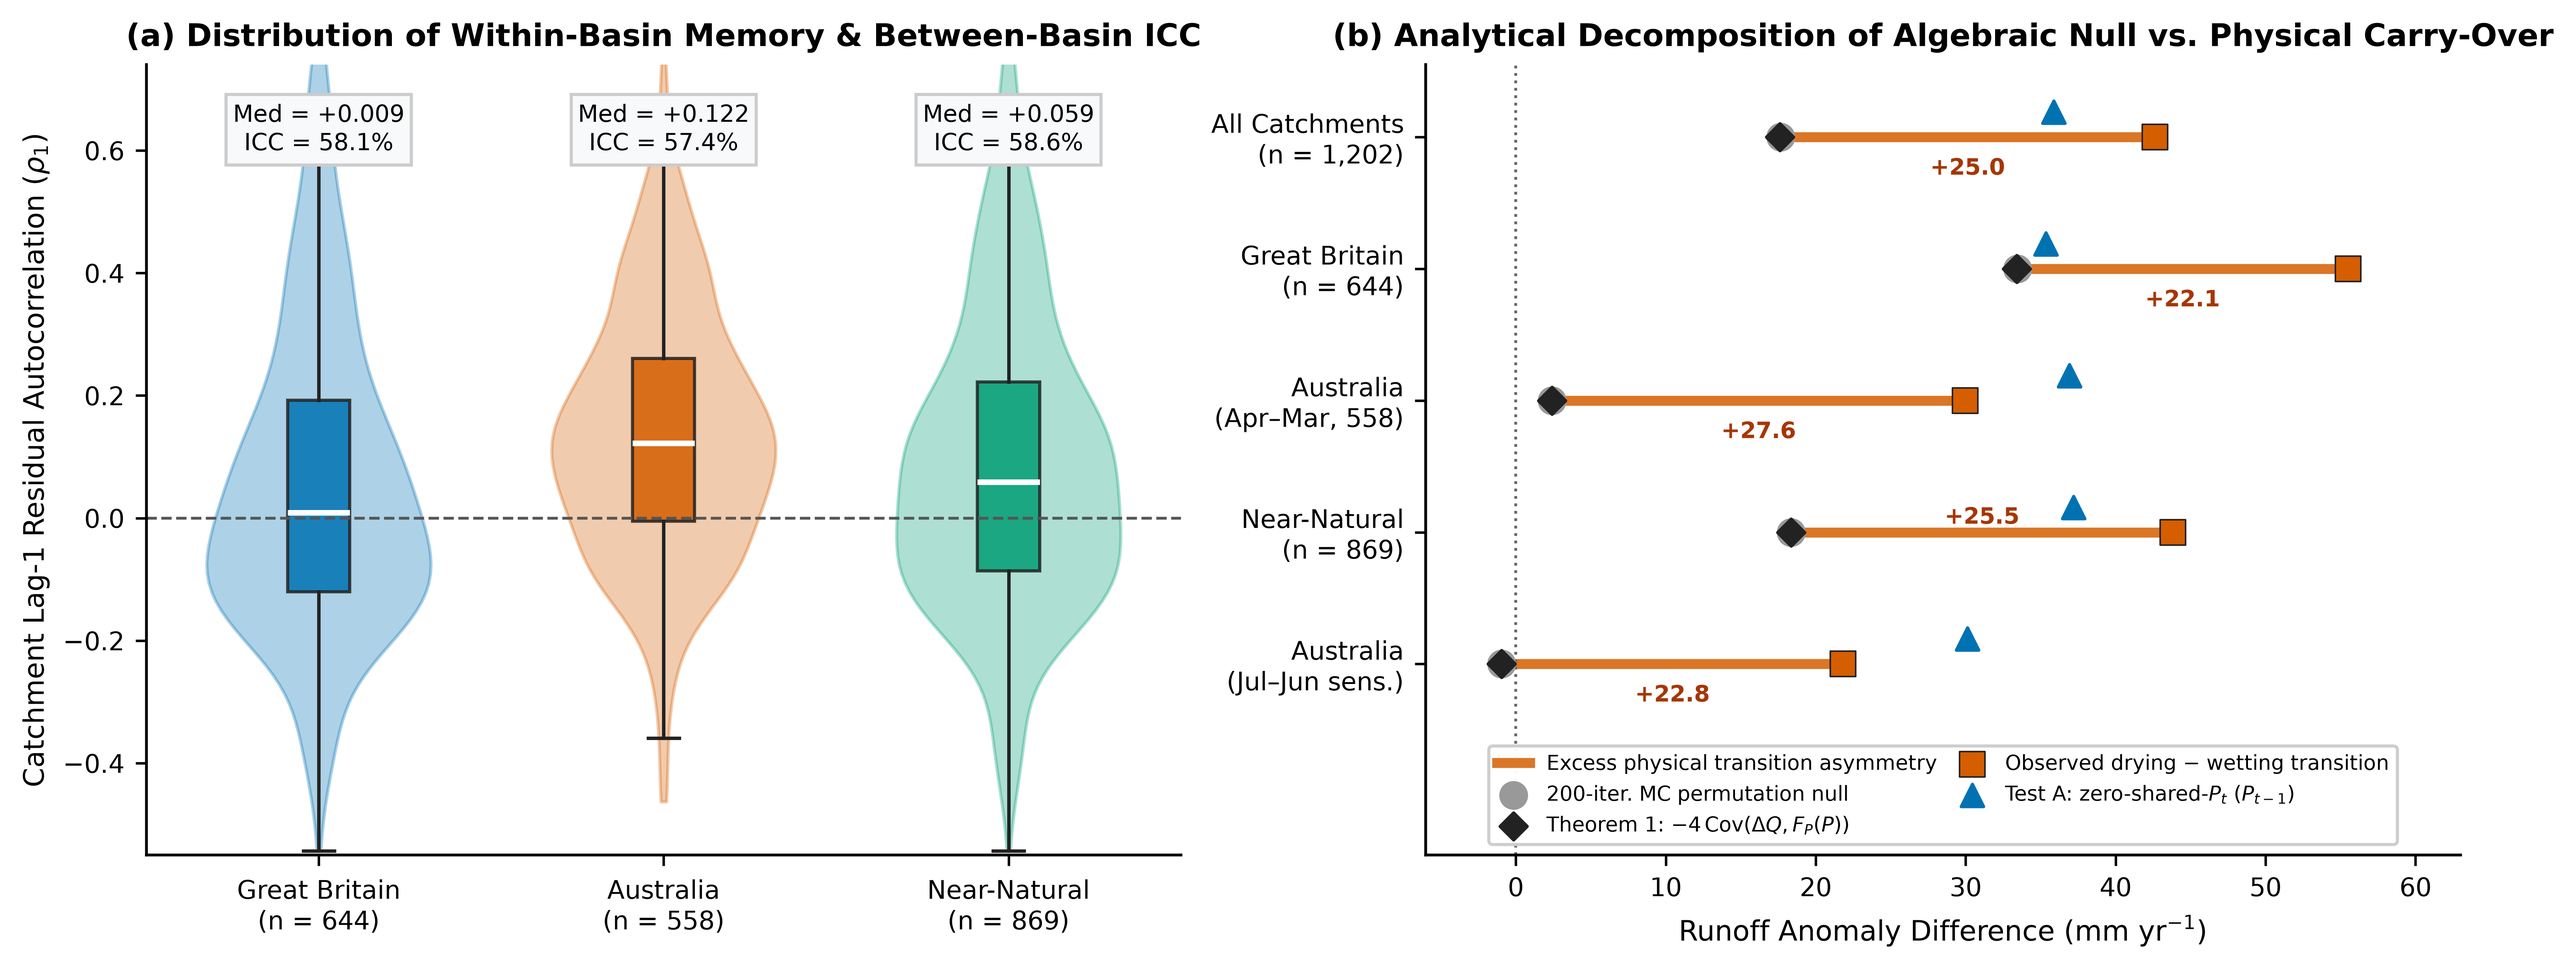
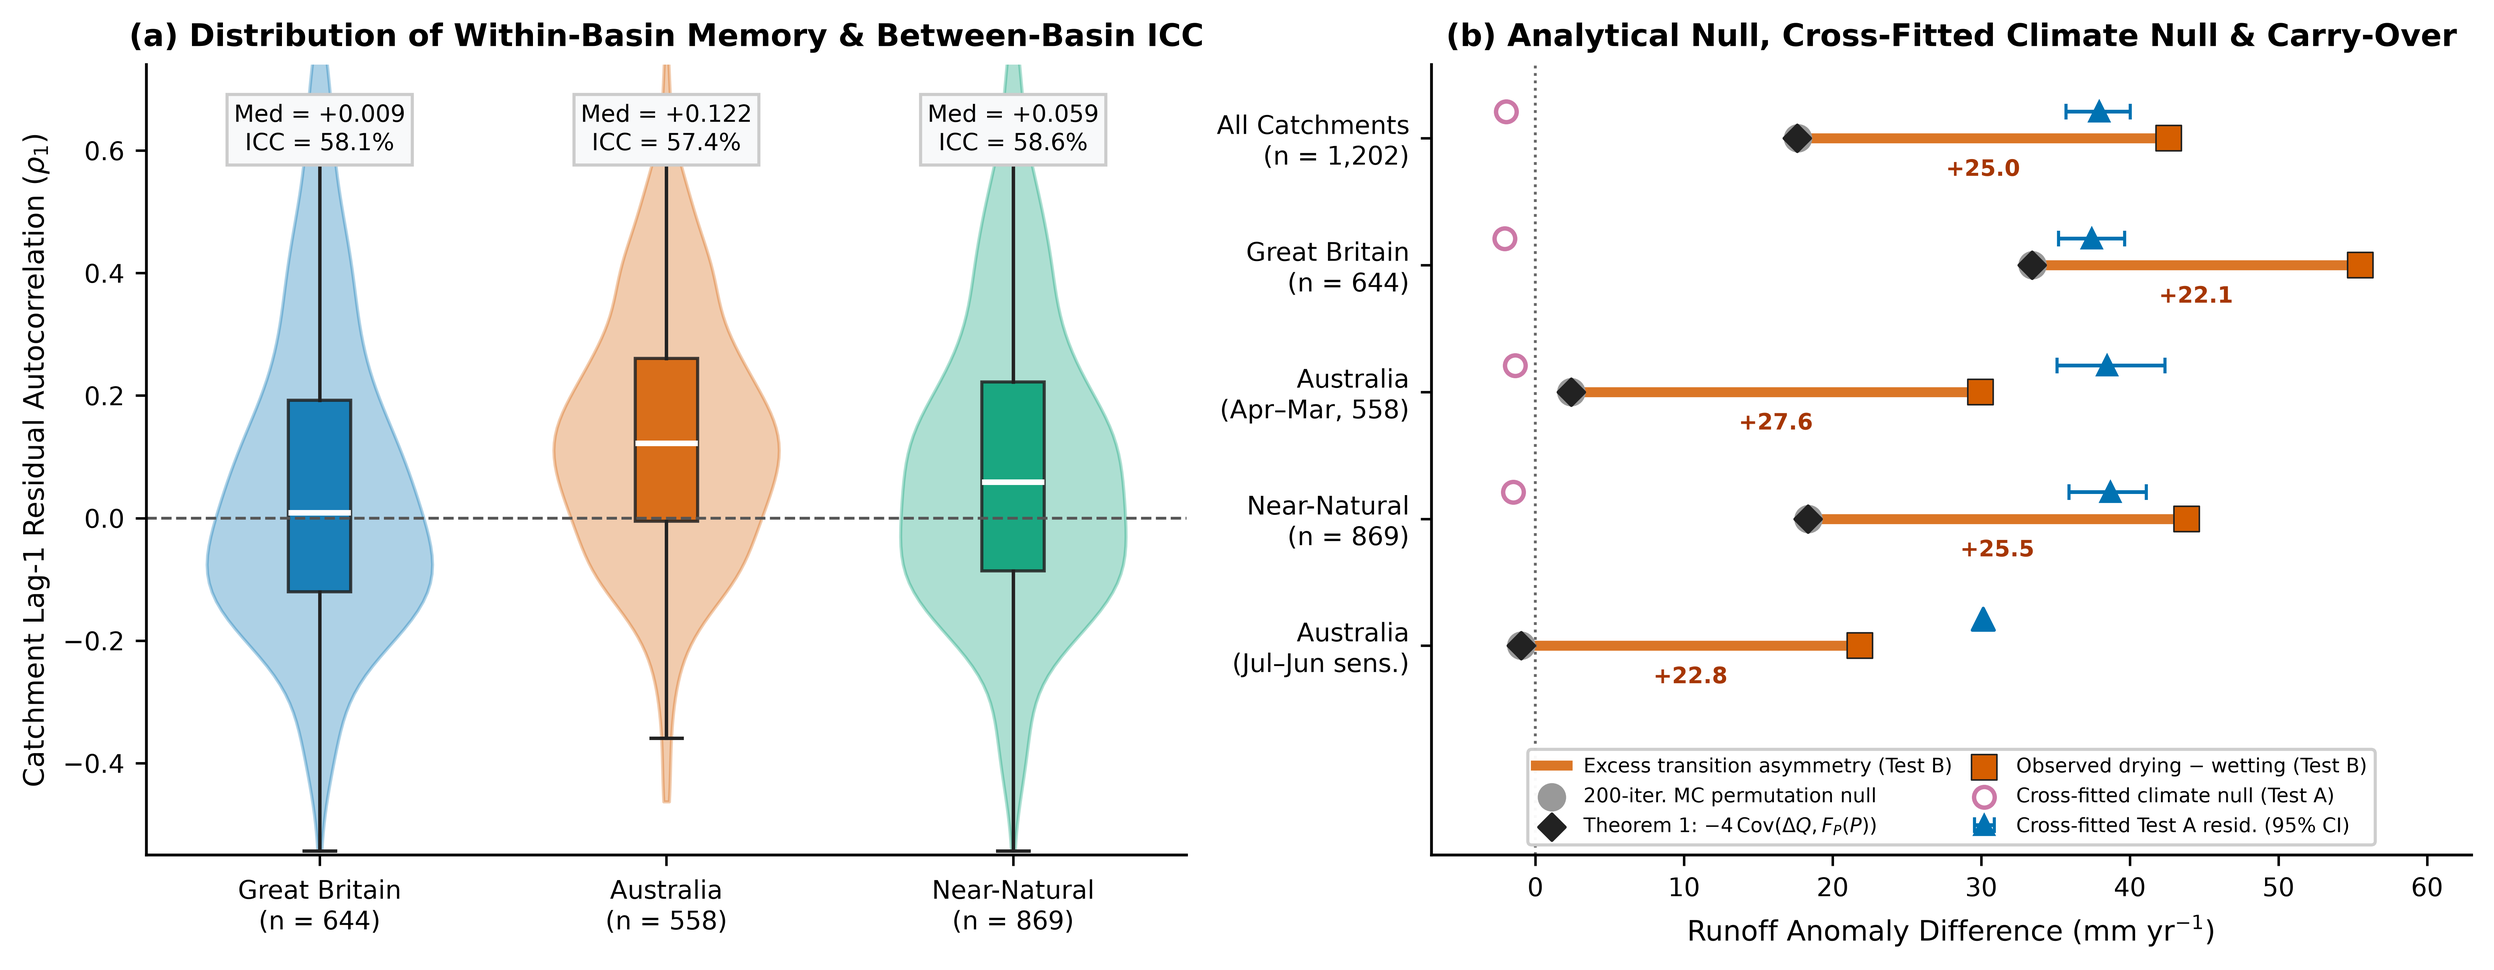
Upgrade 07_p0_rigorous_checks to 5-fold time-block cross-fitting, update Fig2 and README index

diff --git a/scripts/05_generate_top_journal_figures.py b/scripts/05_generate_top_journal_figures.py
@@ -228,7 +228,8 @@ def make_fig2(attrs, diag, rho_map):
     ax1.set_ylabel(r"Catchment Lag-1 Residual Autocorrelation ($\rho_1$)")
     ax1.set_title("(a) Distribution of Within-Basin Memory & Between-Basin ICC")
 
-    # (b) Dumbbell / Decomposition Chart: Algebraic Null (Theorem 1 vs MC) -> Observed -> Antecedent Carry-Over
+    # (b) Dumbbell / Decomposition Chart: Theorem 1 vs MC vs Cross-Fitted Climate Null & 95% CI
+    p0 = json.load(open(os.path.join(RES_DIR, "p0_rigorous_checks.json"), encoding="utf-8"))["ClimatePreserving_Null_and_BasinBootstrap"]
     keys = ["ALL_1202", "GB_644", "AUS_558", "NEAR_NATURAL_869", "AUS_JulJun_WaterYear_Sensitivity"]
     ylabs = ["All Catchments\n(n = 1,202)", "Great Britain\n(n = 644)", "Australia\n(Apr–Mar, 558)", "Near-Natural\n(n = 869)", "Australia\n(Jul–Jun sens.)"]
     y = np.arange(len(keys))
@@ -239,33 +240,42 @@ def make_fig2(attrs, diag, rho_map):
             mc = eu
             obs = eu + diag[k]["test_B_excess_physical_dq_mm"]
             ant = diag[k]["test_A_wet_minus_dry_dq_mm"]
+            ant_ci = None
+            clim_null_a = None
         else:
             tb = diag[k]["test_B_euler_theorem_vs_mc_null"]
             eu = tb["euler_closed_form_null_dq_mm"]
             mc = tb["mc_null_mean_dq_mm"]
             obs = tb["obs_drying_minus_wetting_dq_mm"]
-            ant = diag[k]["test_A_antecedent_only_zero_shared_Pt"]["wet_minus_dry_dq_mm"]
+            ant = p0[k]["TestA_climate_residualized_mm"]
+            ant_ci = p0[k]["TestA_climate_residualized_boot95CI"]
+            clim_null_a = p0[k]["TestA_climate_preserving_null_mm"]
 
-        # Connect algebraic null -> observed (the span IS the excess physical transition asymmetry!)
         ax2.plot([eu, obs], [i, i], color=C_ORANGE, lw=3.2, alpha=0.85, zorder=2,
-                 label="Excess physical transition asymmetry" if i == 0 else None)
-        ax2.scatter(mc, i, s=68, color="#999999", marker="o", zorder=3,
+                 label="Excess transition asymmetry (Test B)" if i == 0 else None)
+        ax2.scatter(mc, i, s=66, color="#999999", marker="o", zorder=3,
                     label="200-iter. MC permutation null" if i == 0 else None)
-        ax2.scatter(eu, i, s=38, color=C_DARK, marker="D", zorder=4,
+        ax2.scatter(eu, i, s=36, color=C_DARK, marker="D", zorder=4,
                     label=r"Theorem 1: $-4\,\mathrm{Cov}(\Delta Q, F_P(P))$" if i == 0 else None)
-        ax2.scatter(obs, i, s=68, color=C_ORANGE, marker="s", edgecolors=C_DARK, linewidths=0.5, zorder=4,
-                    label="Observed drying − wetting transition" if i == 0 else None)
-        ax2.scatter(ant, i - 0.19, s=52, color=C_BLUE, marker="^", zorder=5,
-                    label=r"Test A: zero-shared-$P_t$ ($P_{t-1}$)" if i == 0 else None)
-        y_txt = i - 0.11 if i == 3 else i + 0.24
-        ax2.text((eu + obs) / 2, y_txt, f"+{obs - eu:.1f}", ha="center", va="center", fontsize=7.3, color="#A63603", fontweight="bold")
+        ax2.scatter(obs, i, s=66, color=C_ORANGE, marker="s", edgecolors=C_DARK, linewidths=0.5, zorder=4,
+                    label="Observed drying − wetting (Test B)" if i == 0 else None)
+        if clim_null_a is not None:
+            ax2.scatter(clim_null_a, i - 0.21, s=44, facecolors="white", edgecolors=C_PURPLE, linewidths=1.4, marker="o", zorder=5,
+                        label="Cross-fitted climate null (Test A)" if i == 0 else None)
+        if ant_ci is not None:
+            ax2.errorbar(ant, i - 0.21, xerr=[[ant - ant_ci[0]], [ant_ci[1] - ant]], fmt="^", color=C_BLUE,
+                         ecolor=C_BLUE, elinewidth=1.2, capsize=2.5, ms=6.0, zorder=5,
+                         label="Cross-fitted Test A resid. (95% CI)" if i == 0 else None)
+        else:
+            ax2.scatter(ant, i - 0.21, s=50, color=C_BLUE, marker="^", zorder=5)
+        ax2.text((eu + obs) / 2, i + 0.25, f"+{obs - eu:.1f}", ha="center", va="center", fontsize=7.2, color="#A63603", fontweight="bold")
 
     ax2.axvline(0.0, color="#666666", ls=":", lw=0.9)
     ax2.set_yticks(y); ax2.set_yticklabels(ylabs); ax2.invert_yaxis()
-    ax2.set_xlim(-6, 63); ax2.set_ylim(5.45, -0.55)
+    ax2.set_xlim(-7, 63); ax2.set_ylim(5.65, -0.58)
     ax2.set_xlabel(r"Runoff Anomaly Difference ($\mathrm{mm\ yr}^{-1}$)")
-    ax2.set_title("(b) Analytical Decomposition of Algebraic Null vs. Physical Carry-Over")
-    ax2.legend(loc="lower center", ncol=2, frameon=True, framealpha=0.96, fontsize=6.6, handlelength=1.6, columnspacing=0.9)
+    ax2.set_title("(b) Analytical Null, Cross-Fitted Climate Null & Carry-Over")
+    ax2.legend(loc="lower center", ncol=2, frameon=True, framealpha=0.96, fontsize=6.4, handlelength=1.6, columnspacing=0.8)
 
     fig.tight_layout()
     fig.savefig(os.path.join(FIG_DIR, "Fig2.png"))

diff --git a/scripts/07_p0_rigorous_checks.py b/scripts/07_p0_rigorous_checks.py
@@ -102,14 +102,24 @@ def main():
         w_i = fit_omega(np.array([np.sum(PET) / np.sum(P)]), np.array([np.sum(Q) / np.sum(P)]))
         dq = Q - P * fu_rr(AI, w_i)
 
-        # Contemporary-only memoryless regression g_i(P_t, PET_t) -> dq_hat (preserves ALL climate autocorr!)
-        # Design matrix: [1, P_z, P_z^2, PET_z]
-        pz = (P - np.mean(P)) / max(np.std(P), 1e-6)
-        petz = (PET - np.mean(PET)) / max(np.std(PET), 1e-6)
-        X_clim = np.column_stack([np.ones_like(pz), pz, pz ** 2, petz])
-        beta, *_ = np.linalg.lstsq(X_clim, dq, rcond=None)
-        dq_clim_only = X_clim @ beta           # memoryless climate-driven component
-        dq_clim_resid = dq - dq_clim_only      # residual orthogonal to contemporary (P_t, P_t^2, PET_t)
+        # Strictly out-of-sample 5-fold contiguous time-block cross-fitting for memoryless g_i(P_t, P_t^2, PET_t)
+        n_yr = len(rows)
+        dq_clim_only = np.zeros(n_yr)
+        dq_clim_resid = np.zeros(n_yr)
+        folds = np.array_split(np.arange(n_yr), 5)
+        for f_idx in folds:
+            tr_mask = np.ones(n_yr, dtype=bool)
+            tr_mask[f_idx] = False
+            mu_p, sd_p = float(np.mean(P[tr_mask])), max(float(np.std(P[tr_mask])), 1e-6)
+            mu_e, sd_e = float(np.mean(PET[tr_mask])), max(float(np.std(PET[tr_mask])), 1e-6)
+            def design(p_arr, e_arr):
+                pz_ = (p_arr - mu_p) / sd_p
+                ez_ = (e_arr - mu_e) / sd_e
+                return np.column_stack([np.ones_like(pz_), pz_, pz_ ** 2, ez_])
+            beta, *_ = np.linalg.lstsq(design(P[tr_mask], PET[tr_mask]), dq[tr_mask], rcond=None)
+            pred_oos = design(P[f_idx], PET[f_idx]) @ beta
+            dq_clim_only[f_idx] = pred_oos
+            dq_clim_resid[f_idx] = dq[f_idx] - pred_oos
 
         # Extract consecutive lag-1 pairs
         p_mean = float(np.mean(P))

diff --git a/README.md b/README.md
@@ -2,38 +2,40 @@
 
 Code and summary outputs accompanying the manuscript:
 
-> **Separating Catchment Structure, Inter-Annual Storage Memory, and Physics-Anchored Conformal Uncertainty in Annual Budyko Partitioning Across 1,202 Great Britain and Australian Catchments**  
+> **Catchment Structure, Inter-Annual Runoff Persistence, and Physics-Constrained Conformal Uncertainty Across 1,202 Great Britain and Australian Catchments**  
 > Zijie Deng, Yu Xia, Jiyang Yu, and Zhenyu Liao
 
 ## Overview
 
-This repository provides the full reproducible pipeline across 1,202 low-snow catchments (52,689 water years) from **CAMELS-GB v1** ($n = 644$) and **CAMELS-AUS v2.03** ($n = 558$), including:
+This repository provides the reproducible pipeline across 1,202 low-snow catchments (52,689 water years) from **CAMELS-GB v1** ($n = 644$) and **CAMELS-AUS v2.03** ($n = 558$), including:
 
-- Official daily catchment-averaged water-year aggregation and quality control (with Australian July--June water-year sensitivity check).
-- Orthogonal variance decomposition, partial rank correlation analysis of catchment memory drivers, and closed-form analytical zero-memory transition asymmetry verification ($\Delta_{\mathrm{null}} = -4\,\mathrm{Cov}(\Delta Q, F_P(P))$).
-- Zero-leakage benchmarks across four validation scenarios (gauged temporal, 5-fold ungauged PUB, cross-continent transfer, and Australia's Millennium Drought) comparing physical Fu curves, direct gradient-boosted trees, and physics-anchored residual learning.
-- Conformal uncertainty quantification comparing Split-CP, Local-CP, CQR, Mondrian CQR, boundary-preserving Logit-manifold CQR, and sequential Online Adaptive Conformal Inference (ACI).
+- Official daily catchment-averaged water-year aggregation and quality control (with Australian July–June water-year sensitivity check).
+- Orthogonal variance decomposition, partial rank correlation analysis, closed-form analytical zero-memory transition asymmetry verification ($\Delta_{\mathrm{null}} = -4\,\mathrm{Cov}(\Delta Q, F_P(P))$), and **5-fold contiguous time-block cross-fitted climate-preserving memoryless counterfactuals** with **500-iteration catchment-clustered bootstrap 95% CIs**.
+- Zero-leakage benchmarks across four forcing-conditioned scenarios (S1 gauged temporal, S2 5-fold ungauged PUB, S3 cross-continent transfer, and S4 Australia's Millennium Drought) comparing pure physical Fu curves (`M0`), direct gradient-boosted trees (`M3`/`M4`), physics-anchored residual learning (`M5`), and strictly source-calibrated out-of-support damped residual learning (`M5-Damped`).
+- Conformal uncertainty quantification comparing Split-CP, Local-CP, CQR, Mondrian CQR, Logit-manifold CQR, and sequential Online Adaptive Conformal Inference (ACI).
 
 ## Repository Structure
 
 ```text
 .
 ├── scripts/
-│   ├── 01_build_dataset.py              # Water-year aggregation and quality control (GB + AUS)
-│   ├── 02_diagnostics_and_asymmetry.py  # Variance decomposition, Theorem 1 null verification, and BFI partial correlations
-│   ├── 03_models_and_conformal_uq.py    # Baseline S1-S4 benchmarks and Split-CP / Local-CP / CQR / Mondrian CQR
-│   ├── 03_models_upgraded_suite.py      # Physics-anchored residual HGBR, Logit-CQR, Online ACI, and feature importance
-│   └── 04_generate_figures.py           # Generates all six 300 DPI manuscript figures (Figs. 1-6)
+│   ├── 01_build_dataset.py                 # Water-year aggregation and quality control (GB + AUS)
+│   ├── 02_diagnostics_and_asymmetry.py     # Variance decomposition, Theorem 1 null verification, and BFI partial correlations
+│   ├── 03_models_and_conformal_uq.py       # Baseline S1-S4 benchmarks and Split-CP / Local-CP / CQR / Mondrian CQR
+│   ├── 03_models_upgraded_suite.py         # Physics-anchored residual HGBR, Logit-CQR, Online ACI, and feature importance
+│   ├── 05_generate_top_journal_figures.py  # Generates all six 600 DPI publication figures (Fig1.png - Fig6.png)
+│   └── 07_p0_rigorous_checks.py            # 5-fold time-block cross-fitted climate null, 500-iter basin bootstrap, S3 M0/M5-Damped baselines
 ├── data/
-│   └── gb_aus_basin_attributes.csv      # Harmonized static attributes and long-term indices for 1,202 catchments
+│   └── gb_aus_basin_attributes.csv         # Harmonized static attributes and long-term indices for 1,202 catchments
 ├── results/
 │   ├── dataset_summary.json
 │   ├── diagnostics_summary.json
 │   ├── diagnostics_upgraded.json
 │   ├── modeling_uq_summary.json
-│   └── modeling_upgraded.json
+│   ├── modeling_upgraded.json
+│   └── p0_rigorous_checks.json             # Cross-fitted climate null, basin-clustered 95% CIs, and S3 M0/M5-Damped metrics
 ├── figures/
-│   └── fig1_*.png ... fig6_*.png        # Six 300 DPI manuscript figures
+│   └── Fig1.png ... Fig6.png               # Six 600 DPI manuscript figures
 └── requirements.txt
 ```
 
@@ -56,7 +58,8 @@ python scripts/01_build_dataset.py
 python scripts/02_diagnostics_and_asymmetry.py
 python scripts/03_models_and_conformal_uq.py
 python scripts/03_models_upgraded_suite.py
-python scripts/04_generate_figures.py
+python scripts/07_p0_rigorous_checks.py
+python scripts/05_generate_top_journal_figures.py
 ```
 
 ## License
